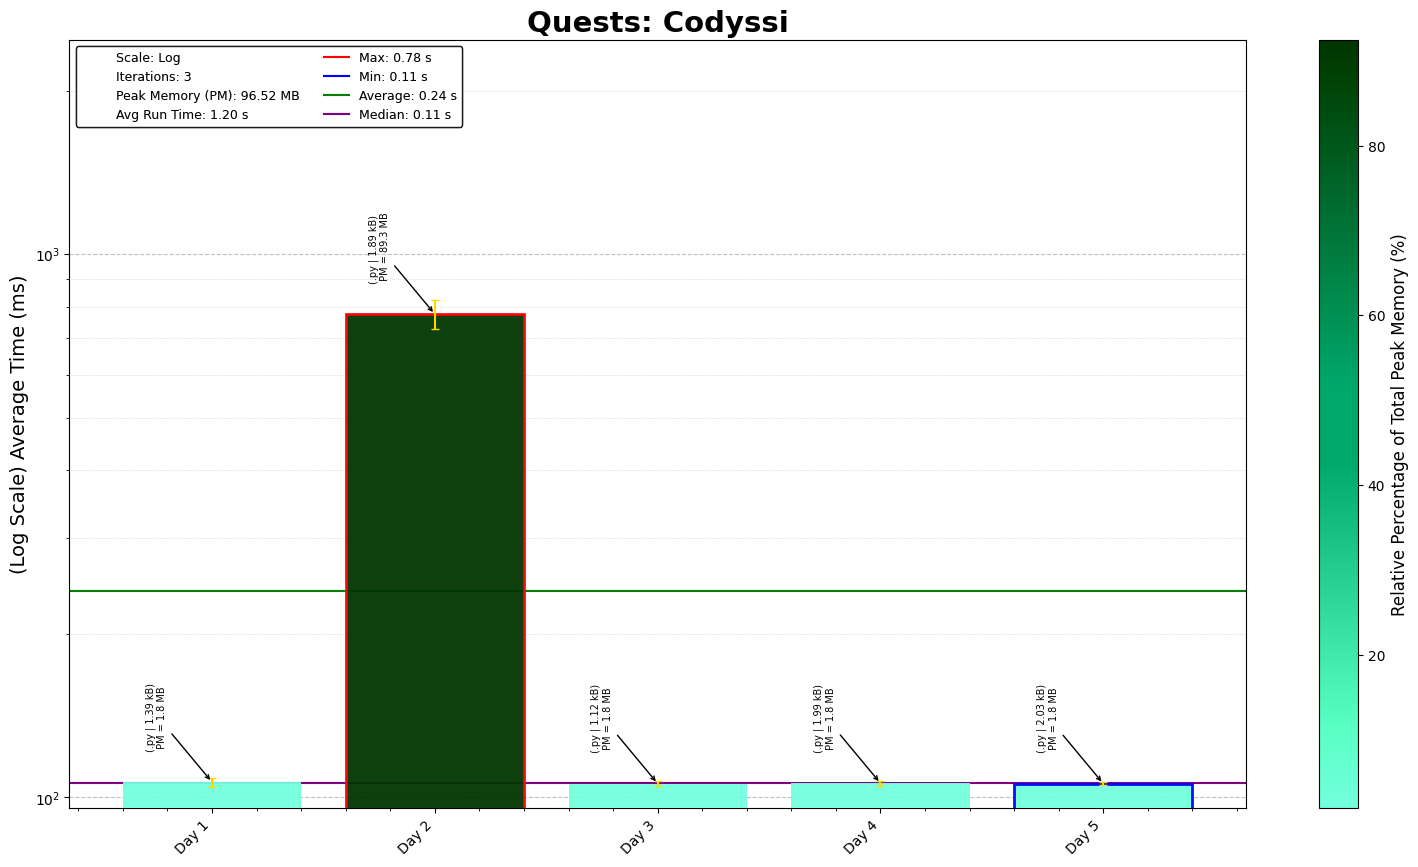
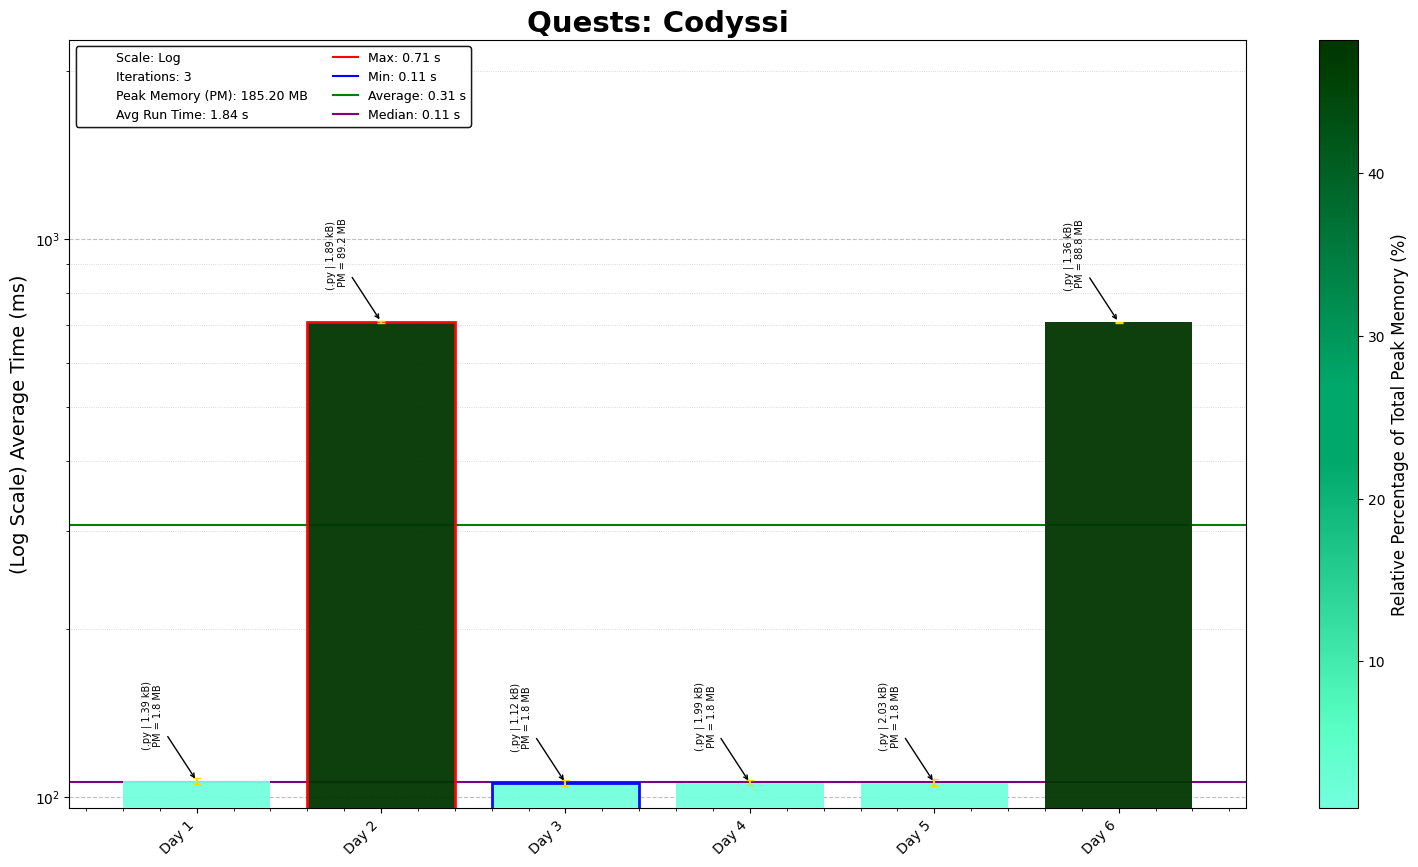
Codyssi Day 6

diff --git a/Codyssi/2025/06/CodyssiDay06.py b/Codyssi/2025/06/CodyssiDay06.py
@@ -1,0 +1,48 @@
+"""Codyssi Puzzles - Problem 6
+Solution Started: Apr 8, 2025
+Puzzle Link: https://www.codyssi.com/view_problem_10?
+Solution by: Abbas Moosajee
+Brief: [Lotus Scramble]
+"""
+
+#!/usr/bin/env python3
+
+import os, re, copy, string
+import numpy as np
+import pandas as pd
+import matplotlib.pyplot as plt
+
+# Load the input data from the specified file path
+D06_file = "Day06_input.txt"
+D06_file_path = os.path.join(os.path.dirname(os.path.abspath(__file__)), D06_file)
+
+# Read and sort input data into a grid
+with open(D06_file_path) as file:
+    input_data = file.read()
+
+LETTER_DICTS = {letter: idx for idx, letter in enumerate(string.ascii_letters, start=1)}
+
+uncorrupted_data = []
+data_value = []
+
+for char in input_data:
+    if char.isalpha():
+        char_value = LETTER_DICTS[char]
+        data_value.append(char_value)
+        uncorrupted_data.append(char_value)
+    else:
+        corrupt_value = (char_value * 2) - 5
+
+        # Adjust corrupt_value to be within the range [1, 52]
+        while corrupt_value < 1:
+            corrupt_value += 52
+        while corrupt_value > 52:
+            corrupt_value -= 52
+
+        if 1 <= corrupt_value <= 52:
+            data_value.append(corrupt_value)
+            char_value = corrupt_value
+
+print("Part 1:", len(uncorrupted_data))
+print("Part 2:", sum(uncorrupted_data))
+print("Part 3:", sum(data_value))

diff --git a/Codyssi/2025/README_Codyssi2025.md b/Codyssi/2025/README_Codyssi2025.md
@@ -7,5 +7,7 @@
 2. **Problem 2 - Absurd Arithmetic**: Sorting through numbers based on a series of arithmetic functions written in text.
 3. **Problem 3 - Supplies in Surplus**: Sorting through a series of boxes, and keeping track of its different properties.
 4. **Problem 4 - Aeolian Transmissions**: Tracking memory of files and identifying different compression for the file.
+5. **Problem 5 - Patron Islands**: Calculating manhattan distances between a series of 2D coordinates.
+6. **Problem 6 - Lotus Scramble**: Characterising the data in a file, and calculating its value.
 ---
 
